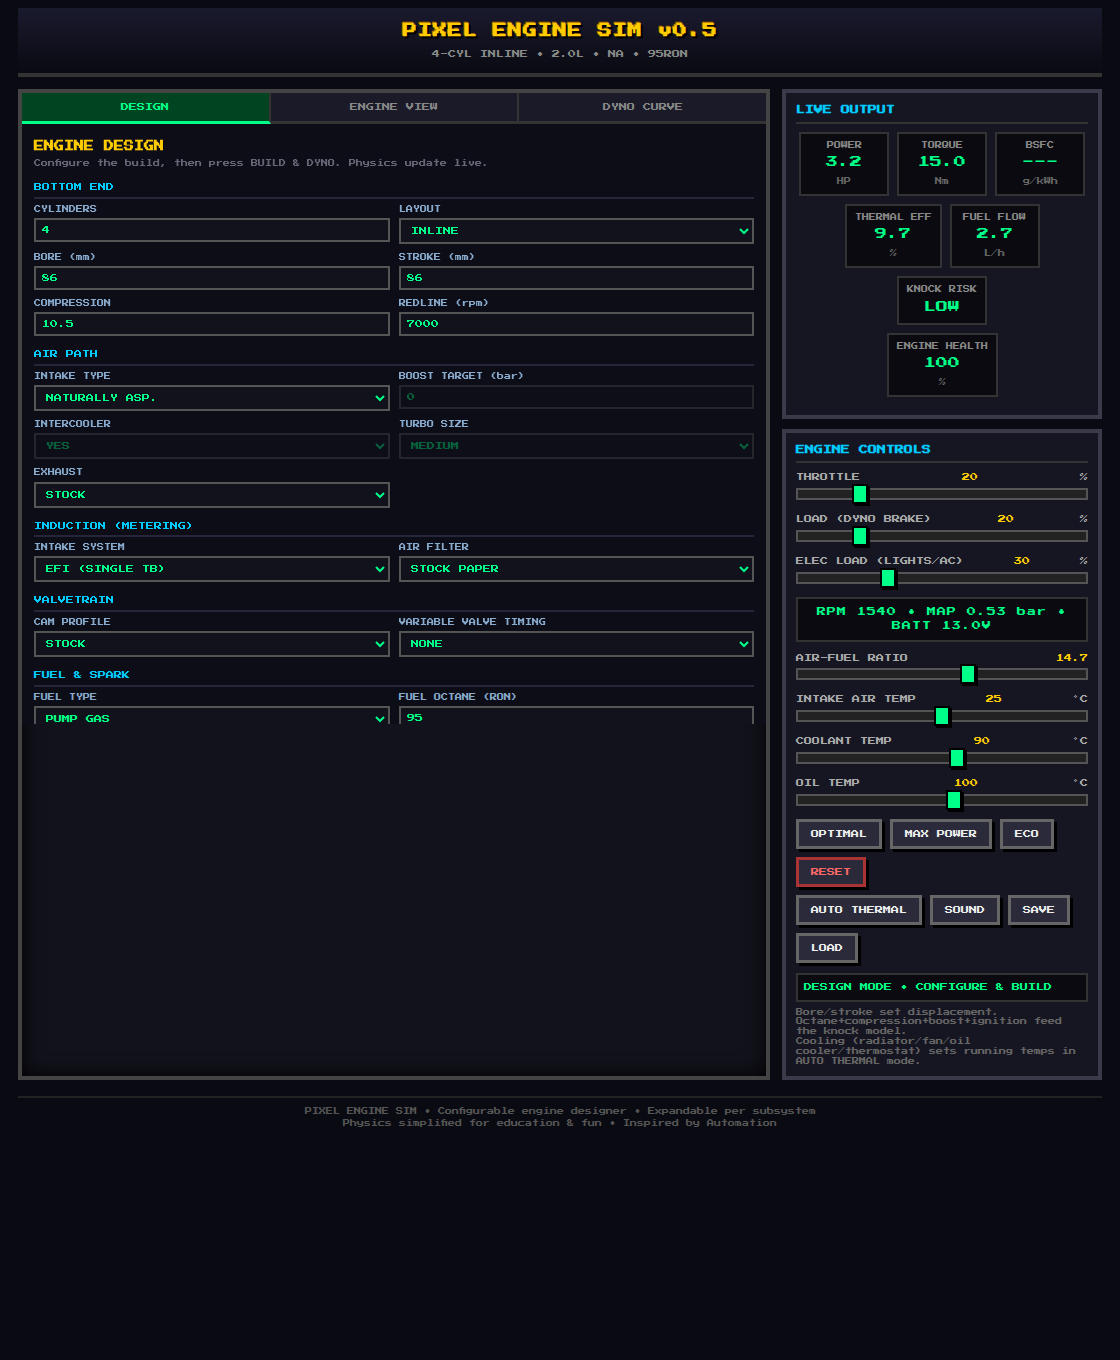
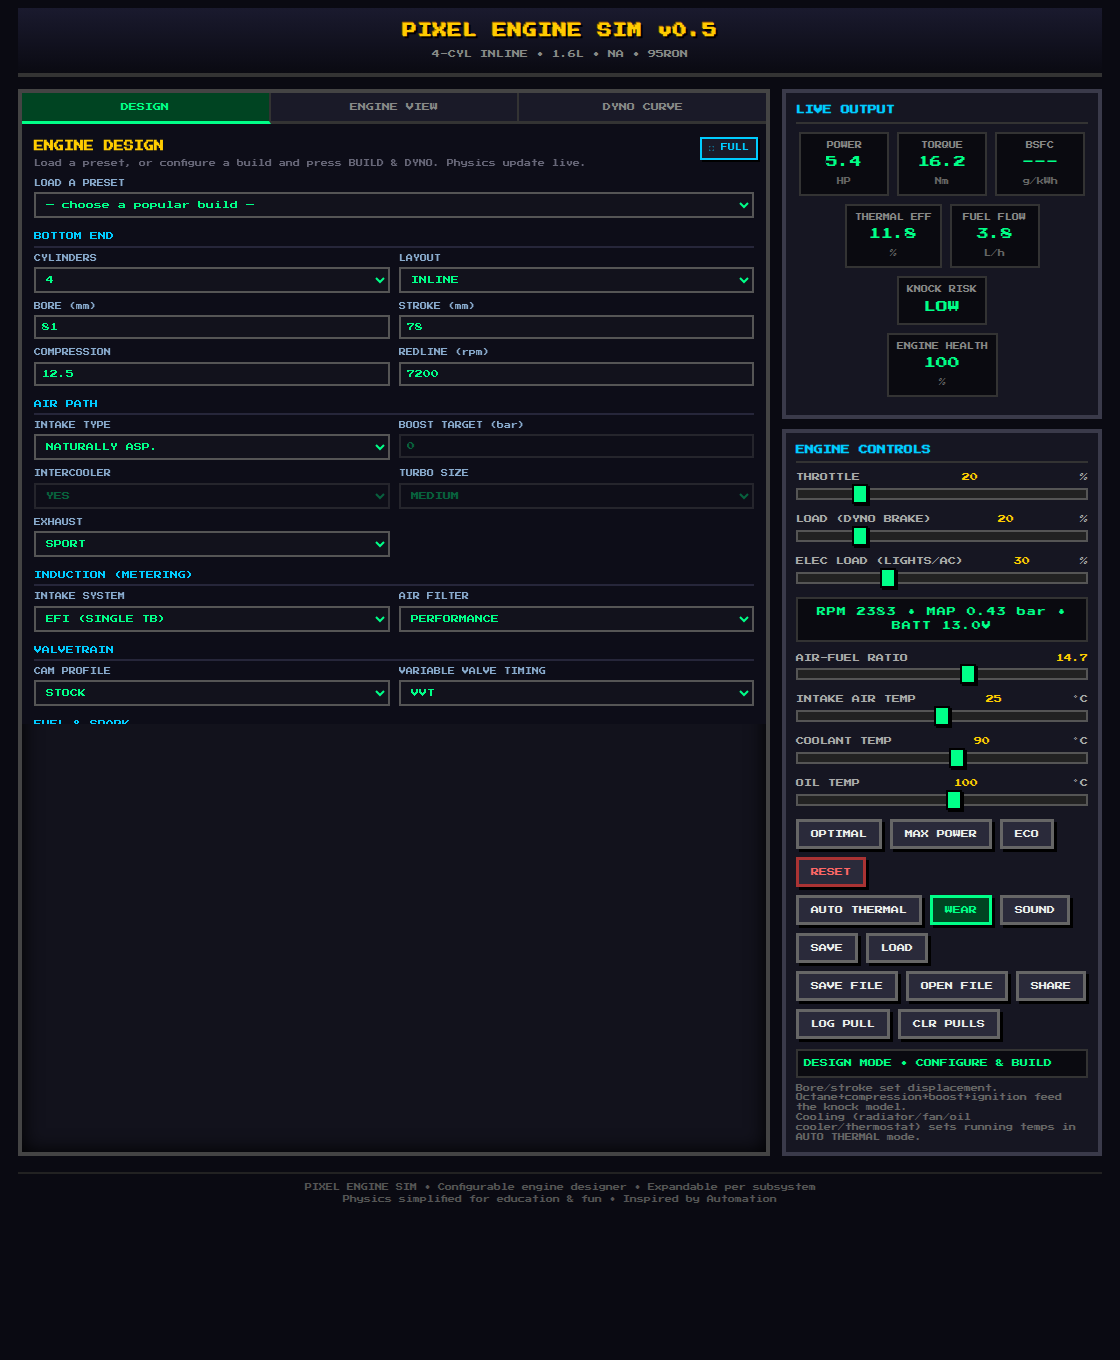
Add engine presets, 1.6 sport default, cylinder dropdown
- LOAD A PRESET dropdown on the DESIGN tab with 10 popular archetypes (1.6
  sport NA, 1.0 kei turbo, 1.5 eco turbo, 2.0 turbo hot-hatch, 2.0 ITB NA
  screamer, 2.5 turbo I5, 3.0 turbo I6, 5.0 V8 muscle, 6.2 supercharged V8,
  6.5 V12 supercar). Each is a delta over the default spec, loaded via the
  shared applyBuild path with a standard tune; switches to the dyno.
- Default engine is now a modern 1.6 L NA sport four (81×78, CR 12.5, VVT,
  direct injection, coil-on-plug, ECU/auto timing) — ~146 hp.
- CYLINDERS is now a dropdown (1,2,3,4,5,6,8,10,12 — 7/9/11 omitted) instead of
  a free number input.

Verified headless: default builds to 1.61 L; all 10 presets load with sane
displacement/power/grade and rev correctly under load (4400-5900 rpm, none
trapped) thanks to the new dyno-brake load model. Zero console errors.
README + screenshots updated.

Claude-Session: https://claude.ai/code/session_01AEJgmuJne9ALT6jCcxozCn

diff --git a/index.html b/index.html
@@ -98,11 +98,13 @@ footer{text-align:center;margin-top:16px;padding:8px;font-size:7px;color:#555;bo
 <canvas id="engineCanvas" width="640" height="420" role="img" aria-label="Engine test-bench schematic with live values"></canvas>
 <div class="design-panel" id="designPanel">
 <h3>ENGINE DESIGN</h3>
-<div class="hint">Configure the build, then press BUILD &amp; DYNO. Physics update live.</div>
+<div class="hint">Load a preset, or configure a build and press BUILD &amp; DYNO. Physics update live.</div>
+
+<div class="field" style="margin-bottom:6px"><label for="edPreset">LOAD A PRESET</label><select id="edPreset"><option value="">— choose a popular build —</option></select></div>
 
 <div class="design-section">Bottom End</div>
 <div class="design-grid">
-<div class="field"><label for="edCyl">CYLINDERS</label><input type="number" id="edCyl" min="1" max="12" step="1" value="4"></div>
+<div class="field"><label for="edCyl">CYLINDERS</label><select id="edCyl"><option value="1">1</option><option value="2">2</option><option value="3">3</option><option value="4">4</option><option value="5">5</option><option value="6">6</option><option value="8">8</option><option value="10">10</option><option value="12">12</option></select></div>
 <div class="field"><label for="edLayout">LAYOUT</label><select id="edLayout"><option value="inline">INLINE</option><option value="v">V</option><option value="boxer">BOXER</option></select></div>
 <div class="field"><label for="edBore">BORE (mm)</label><input type="number" id="edBore" min="60" max="105" step="0.5" value="86"></div>
 <div class="field"><label for="edStroke">STROKE (mm)</label><input type="number" id="edStroke" min="50" max="110" step="0.5" value="86"></div>
@@ -273,15 +275,32 @@ const AIR_FILTER={
 
 // The engine build spec. Everything downstream derives from this object, so new
 // subsystems (electrical, cooling, etc.) can be added later as more fields here.
+// Default is a modern 1.6 L naturally-aspirated sport four (high compression, DI, VVT,
+// coil-on-plug with ECU knock-limited timing).
 const DEFAULT_ENGINE={
-  cylinders:4,bore_mm:86,stroke_mm:86,compression:10.5,layout:'inline',redline:7000,
-  intake:'na',boost_bar:0,intercooler:true,turboSize:'medium',exhaust:'stock',
-  intakeSys:'efi',airFilter:'stock',
-  cam:'stock',vvt:false,
-  fuel:'gasoline',octane:95,injector:'port',ignitionAdv:22,ignitionType:'coil',timingMode:'fixed',
+  cylinders:4,bore_mm:81,stroke_mm:78,compression:12.5,layout:'inline',redline:7200,
+  intake:'na',boost_bar:0,intercooler:true,turboSize:'medium',exhaust:'sport',
+  intakeSys:'efi',airFilter:'perf',
+  cam:'stock',vvt:true,
+  fuel:'gasoline',octane:95,injector:'direct',ignitionAdv:22,ignitionType:'coil',timingMode:'auto',
   radiator:'stock',fan:'electric',oilCooler:false,thermostat:88,
   alternator:'120'
 };
+// Ready-made popular builds (deltas over DEFAULT_ENGINE). Loaded from the DESIGN dropdown.
+const PRESETS=[
+  {name:'1.6 Sport NA I4',        engine:{}},
+  {name:'1.0 Kei Turbo I3',       engine:{cylinders:3,bore_mm:73,stroke_mm:79.6,compression:9.5,redline:7000,intake:'turbo',boost_bar:0.7,turboSize:'small',injector:'port'}},
+  {name:'1.5 Turbo Eco I4',       engine:{cylinders:4,bore_mm:73,stroke_mm:89.5,compression:10.5,redline:6500,intake:'turbo',boost_bar:0.8,turboSize:'small',airFilter:'stock',exhaust:'stock'}},
+  {name:'2.0 Turbo Hot-Hatch I4', engine:{cylinders:4,bore_mm:86,stroke_mm:86,compression:9.8,redline:7000,intake:'turbo',boost_bar:1.0,turboSize:'medium',octane:98,cam:'sport',exhaust:'sport',radiator:'large',oilCooler:true}},
+  {name:'2.0 ITB NA Screamer I4', engine:{cylinders:4,bore_mm:87,stroke_mm:84,compression:11.7,redline:8800,intakeSys:'itb',airFilter:'none',cam:'race',exhaust:'race',octane:98,injector:'port',radiator:'large',oilCooler:true}},
+  {name:'2.5 Turbo I5 (RS)',      engine:{cylinders:5,bore_mm:82.5,stroke_mm:92.8,compression:10,redline:7000,intake:'turbo',boost_bar:1.1,turboSize:'medium',octane:98,cam:'sport',exhaust:'sport',radiator:'large',oilCooler:true}},
+  {name:'3.0 Turbo I6 (2JZ)',     engine:{cylinders:6,bore_mm:84,stroke_mm:90,compression:10.2,redline:7000,intake:'turbo',boost_bar:0.9,turboSize:'medium',octane:98,cam:'sport',exhaust:'sport',radiator:'large',oilCooler:true}},
+  {name:'5.0 V8 NA Muscle',       engine:{cylinders:8,bore_mm:93,stroke_mm:92.7,compression:12,layout:'v',redline:7500,cam:'sport',exhaust:'sport',radiator:'large',oilCooler:true}},
+  {name:'6.2 Supercharged V8',    engine:{cylinders:8,bore_mm:103.9,stroke_mm:90.9,compression:9.5,layout:'v',redline:6400,intake:'supercharger',boost_bar:0.65,octane:98,injector:'port',vvt:false,cam:'sport',exhaust:'sport',radiator:'large',oilCooler:true}},
+  {name:'6.5 V12 NA Supercar',    engine:{cylinders:12,bore_mm:95,stroke_mm:76.4,compression:11.8,layout:'v',redline:8500,intakeSys:'itb',cam:'race',exhaust:'race',octane:98,injector:'port',radiator:'large',oilCooler:true}}
+];
+const STD_TUNE={throttle:0.85,load:0.40,elecLoad:0.30,afr:13.2,iat:25,coolant:90,oil:100,autoThermal:false};
+
 const RAD_CAP={small:0.75,stock:1.0,large:1.35};   // relative heat-rejection capacity
 const IMEP_K=13.2;   // indicated MEP calibration (bar at map=1, ve=1, best-power AFR)
 // Dynamic (throttle-driven) model tuning:
@@ -1281,6 +1300,18 @@ function bindControls(){
   document.getElementById('edFuel').addEventListener('change',syncDesignEnable);
   document.getElementById('edTiming').addEventListener('change',syncDesignEnable);
   document.getElementById('edIntakeSys').addEventListener('change',syncDesignEnable);
+  // Populate & wire the preset dropdown
+  const presetSel=document.getElementById('edPreset');
+  PRESETS.forEach((p,i)=>{const o=document.createElement('option');o.value=i;o.textContent=p.name;presetSel.appendChild(o);});
+  presetSel.addEventListener('change',e=>{
+    if(e.target.value==='')return;
+    const p=PRESETS[+e.target.value];
+    applyBuild({engine:Object.assign({},p.engine),tune:Object.assign({},STD_TUNE),name:p.name});
+    engine.name=p.name;
+    e.target.value='';
+    flash('LOADED: '+p.name+' • '+engine.displacement_L.toFixed(engine.displacement_L<1?2:1)+'L'+(engine.score?' • '+engine.score.grade:''));
+    setTab('dyno');
+  });
   document.getElementById('btnBuild').addEventListener('click',()=>{buildEngine();flash('ENGINE BUILT • '+engine.displacement_L.toFixed(engine.displacement_L<1?2:1)+'L');setTab('dyno')});
   document.getElementById('btnDesignReset').addEventListener('click',()=>{applyEngineToForm(Object.assign({},DEFAULT_ENGINE));buildEngine();flash('DESIGN RESET TO DEFAULTS')});
 }

diff --git a/README.md b/README.md
@@ -11,8 +11,9 @@ watch the physics respond. Web-based, fully offline-capable, installable as a PW
 ## Features
 
 ### Engine Designer (new in v0.3)
-Configure a build on the **DESIGN** tab, press **BUILD & DYNO**, and every parameter
-feeds the physics:
+Load one of **10 preset builds** from the dropdown (1.6 sport, kei turbo, hot-hatch, ITB
+screamer, 2JZ six, muscle V8, blown V8, V12 supercar…), or configure your own on the
+**DESIGN** tab and press **BUILD & DYNO**. Every parameter feeds the physics:
 
 - **Bottom end** — cylinder count (1–12), layout (inline / V / boxer), bore, stroke,
   compression ratio, redline. Bore × stroke × cylinders sets the displacement.
@@ -189,9 +190,9 @@ philosophy).
 
 ### Next round — planned build order
 
-1. **Engine presets / example gallery** — one-click, load-ready archetypes (kei triple,
-   2.0 turbo, 5.0 V8, ITB screamer, race V12, …) built on the share-code format, so variants
-   are easy to try and the physics gets stress-tested across the design space. *(next)*
+1. ~~Engine presets / example gallery~~ ✅ **done** — a **LOAD A PRESET** dropdown with 10
+   popular archetypes (1.6 sport, kei turbo, hot-hatch, ITB screamer, RS5-turbo, 2JZ six,
+   muscle V8, blown V8, V12 supercar, eco turbo).
 2. **(D) Forced-induction & tuning depth** — twin / sequential / compound turbos, supercharger
    types (roots vs centrifugal curves), anti-lag, nitrous, and 2D fuel/ignition maps.
 3. **(E) Emissions & sound** — CO / HC / NOx + catalytic converter + an emissions score